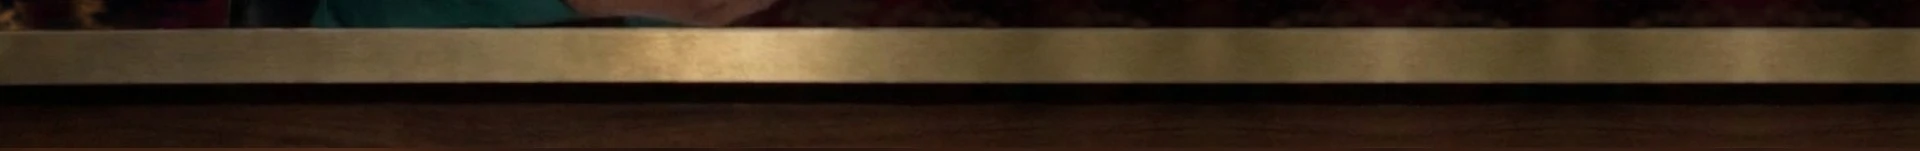
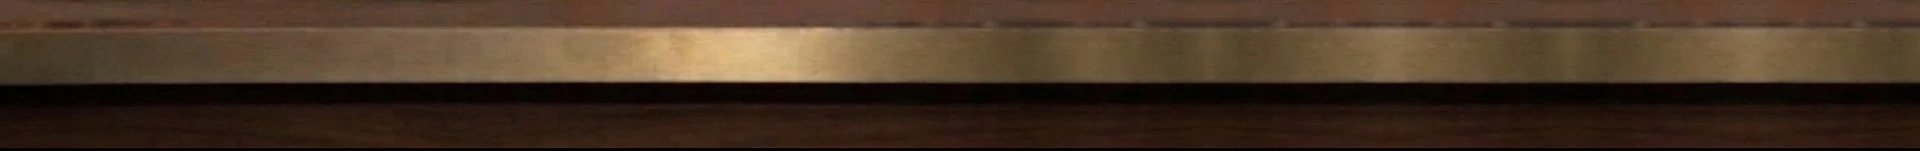
feat: The Gilded Reel returns to its walnut-and-city studio, refined
Back to the studio's original feeling, redesigned: stepped walnut art-deco
panels lit warmly from behind, a tall window onto the night city behind sheer
amber curtains, all softly out of focus, and the guest's TV photographed into
the set on a walnut and brass easel standing behind the desk, at about Jada's
eye line. Her portrait's background and the set are cut from one photograph
of the empty studio, so they agree everywhere. Her desk reads apart from the
floor (a darker floor behind it, a catch-light on its back edge) and runs
clean across the frame. The page draws no TV stand of its own any more.

Claude-Session: https://claude.ai/code/session_01GSFhiV3Ep34znZMVb7cbqT

Changed region(s): [[0.0, 0.0, 1.0, 0.2119], [0.0, 0.9801, 1.0, 1.0]]

diff --git a/apps/tv-show-live/page/gilded.css b/apps/tv-show-live/page/gilded.css
@@ -230,7 +230,7 @@ button { font: inherit; }
 /* Cuts, not zooms: a studio camera is either on its shot or not. */
 /* Jada from the chest up; the TV's edge stays in frame (a video off screen is not sent). */
 .gr-program.is-host .gr-set { transform: scale(1.5); transform-origin: 4% 35%; }
-.gr-program.is-tv .gr-set { transform: scale(1.9); transform-origin: 96.44% 54.33%; }
+.gr-program.is-tv .gr-set { transform: scale(1.9); transform-origin: 96.95% 52.22%; }
 .gr-wall { position: absolute; inset: 0; width: 100%; height: 100%; object-fit: fill; }
 
 /* Jada: her whole render, laid exactly over her place in the set (the set was outpainted from
@@ -246,12 +246,9 @@ button { font: inherit; }
 .ll-face { position: absolute; inset: 0; overflow: hidden; background: transparent; }
 .ll-face img, .ll-face video { position: absolute; inset: 0; width: 100%; height: 100%; object-fit: cover; display: block; }
 
-/* Its brass floor stand, from under the screen down behind the desk. */
-.gr-tv-stand { position: absolute; left: calc(62% + 31% / 2 - .35cqw); top: 62%; width: .7cqw; height: 24%; z-index: 2;
-  background: linear-gradient(90deg, #6b4e1f, #e2c27a 45%, #8a6a2c); box-shadow: 0 0 .6cqw rgba(0, 0, 0, .5); }
-/* The TV stands in the open stage, drawn here (the set has none): moving it is these numbers. Above
-   Jada's render, whose wide right edge may pass under it. */
-.gr-tv { position: absolute; left: 62%; top: 31%; width: 31%; height: 31%; overflow: hidden; z-index: 4; box-shadow: 0 0 0 .3cqw #0b0a09, 0 1.2cqw 2.4cqw rgba(0, 0, 0, .55); background: #0e0d0c; }
+/* The TV on its easel in the set: the screen measured from the photo's green. Above Jada's render,
+   whose wide right edge may pass under it; its bezel drawn, for where her render covers the set's. */
+.gr-tv { position: absolute; left: 62.240%; top: 30.000%; width: 31.406%; height: 33.889%; overflow: hidden; z-index: 4; box-shadow: 0 0 0 .3cqw #0b0a09, 0 1.2cqw 2.4cqw rgba(0, 0, 0, .55); background: #0e0d0c; }
 .gr-tv-feed { position: absolute; inset: 0; opacity: 0; transition: opacity .5s; }
 .gr-tv-feed.is-on { opacity: 1; }
 /* The top of the guest's frame: her face and the film's art behind her (her hands fall below the TV). */

diff --git a/apps/tv-show-live/show/script.ts b/apps/tv-show-live/show/script.ts
@@ -142,7 +142,7 @@ export const STABLE_PICTURE =
 // The framing, said outright: Causeur's "fixed camera" alone left this renderer zooming in and out.
 const FRAMING = 'The camera is locked off on a tripod: one fixed medium shot, exactly as framed at the start, the whole upper body and the desk always in frame. The camera never zooms in or out, never pushes in, never pans or tilts.';
 const prompt = (state: string, setting: string) => `${state}\n\n${setting}\n\n${FRAMING} ${STABLE_PICTURE}`;
-const STUDIO = 'The setting is an art-deco cinema talk-show stage, softly out of focus: a proscenium arch of warm marquee bulbs, a glowing gold sunburst, an ornate gold deco panel and burgundy velvet drapes, behind a glossy black lacquer desk with a brass edge, warm light.';
+const STUDIO = 'The setting is a late-night TV studio, softly out of focus: stepped walnut art-deco panels lit warmly from behind, and a tall window onto a city at night behind sheer amber curtains, its lights melting into bokeh, behind a walnut desk with a brass edge, warm low light.';
 /**
  * While listening, small reactions, which the page rotates every LISTENING_EVERY_MS so the face
  * stays alive: only the head and the face move (Causeur's avatar2: a held state changes the head

diff --git a/apps/tv-show-live/page/App.tsx b/apps/tv-show-live/page/App.tsx
@@ -903,7 +903,6 @@ function Program({ host, tvFaces, onTv, tvCard, caption, captionsOn, onCaptions,
     <section className={`gr-program is-${camera} ${trailer && !trailerLeaving ? 'is-trailer' : ''}`} aria-label="The show, as it goes out">
       <div className="gr-set">
         <img className="gr-wall" src={wall} alt="" />
-        <span className="gr-tv-stand" aria-hidden="true" />
         <div className="gr-tv">
           {/* Both guest slots stay in the TV (a video off screen is not sent): the one on air shows. */}
           <div className={`gr-tv-feed ${patched ? 'is-on' : ''}`}>
